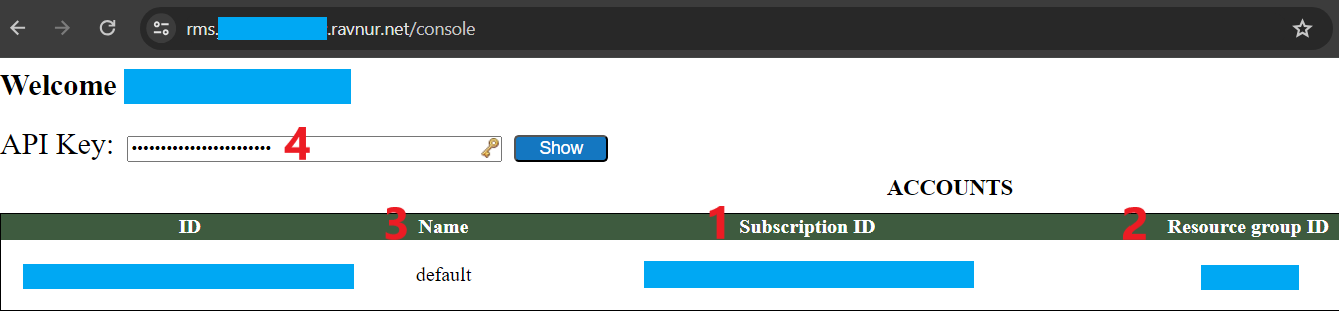
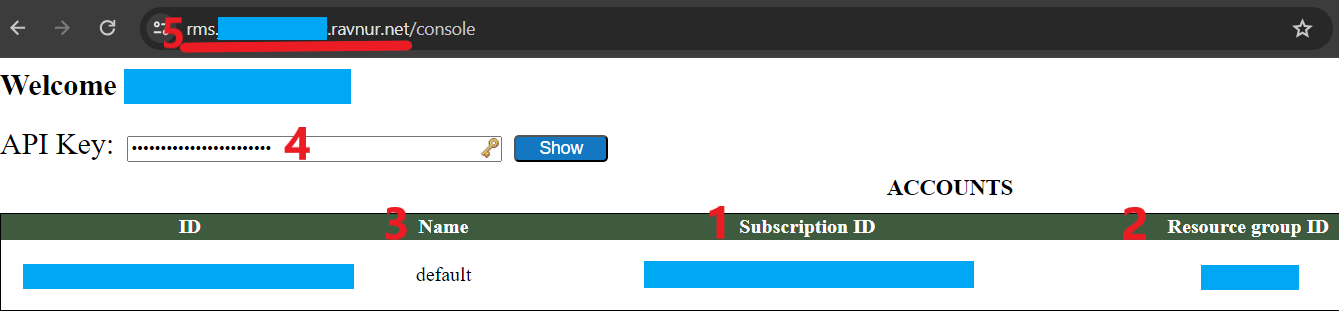
Explained numbers of RMS credentials screenshot

Changed region(s): [[0.1225, 0.0312, 0.3062, 0.1875]]

diff --git a/docs/app-migration.md b/docs/app-migration.md
@@ -13,6 +13,11 @@
 3. In the list of outputs, copy "consoleURL" and open it in a browser. ![RMS Console URL](img/rms-managed-app-outputs.png)
 4. On the Console page, copy all necessary RMS connection credentials and save them to be later specified in your app configuration.
    ![Console credentials](img/console-credentials.PNG)
+   * 1 - RMS Subscription ID;
+   * 2 - RMS Resource Group Name;
+   * 3 - RMS Account Name;
+   * 4 - RMS API Key
+   * 5 - RMS API Endpoint (`https://rms.{unique-string}.ravnur.net`).
 
 ## Register Your AMS Storage(s) in RMS
 
